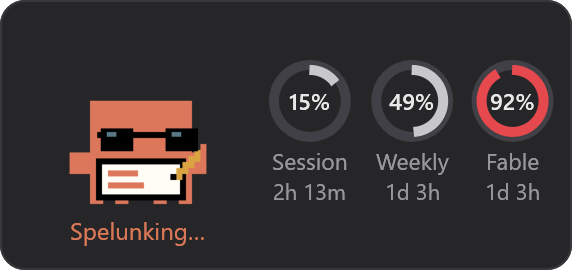
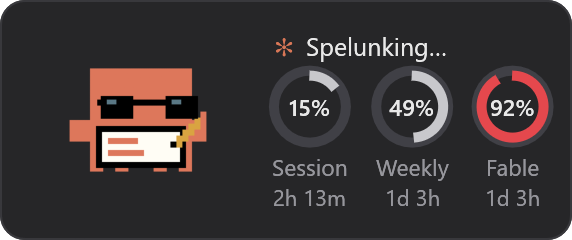
Reshoot the README screenshots for the current panel and settings
The cover and moods now show Clawd's status line above the meters, with
the star turning and each word typing over the last. Settings gets a shot
of each Windows 11-style page, and a new image shows the panel's sizes.

diff --git a/README.md b/README.md
@@ -1,7 +1,7 @@
 # Cuota
 
 <p align="center">
-  <img src="docs/screenshots/clawd-at-work.png" width="383" alt="Cuota's panel: Clawd acts out one activity after another, with a word under him like Percolating…, beside bars for the Session, Weekly and Fable limits">
+  <img src="docs/screenshots/clawd-at-work.png" width="383" alt="Cuota's panel: Clawd acts out one activity after another, while the line above the Session, Weekly and Fable bars types out what he's up to, like ✻ Percolating…">
 </p>
 
 <p align="center">
@@ -16,22 +16,34 @@ Clawd, the Claude Code mascot, acts out a random activity while Claude works: a 
 
 **Clawd's moods**: working, waiting for a minute after a session goes idle, asleep once nothing is happening, and celebrating when work is done.
 
-<img src="docs/screenshots/moods.png" width="776" alt="Four panels: Clawd running commands in sunglasses (Wrangling…), drinking coffee while he waits (Lollygagging…), asleep in a nightcap (Snoozing…), and celebrating under confetti (Nailed it!)">
+<img src="docs/screenshots/moods.png" width="776" alt="Four panels, each with its word above the bars: Clawd running commands in sunglasses (Wrangling…), drinking coffee while he waits (Lollygagging…), asleep in a nightcap (Snoozing…), and celebrating under confetti (Nailed it!)">
 
-**Make it yours**: rings instead of bars, Clawd without his status word, or just the meters.
+**Make it yours**: rings instead of bars, Clawd without his status line, or just the meters.
 
 <p>
   <img src="docs/screenshots/panel-pie.png" width="286" alt="The panel with a ring per limit, showing its percentage inside and the time left underneath">
-  <img src="docs/screenshots/panel-no-status.png" width="383" alt="The panel with Clawd searching the web and no status word under him">
+  <img src="docs/screenshots/panel-no-status.png" width="383" alt="The panel with Clawd searching the web and no status line above the bars">
   <img src="docs/screenshots/panel-no-clawd.png" width="259" alt="The panel with only the limit bars, percentages and time left">
 </p>
 
-**Usage details and settings**: double-click the panel for details, right-click it for settings.
+**Any size**: ten steps from 70% to 160%. Pick one in settings, or turn the mouse wheel over the panel.
+
+<img src="docs/screenshots/sizes.png" width="880" alt="The panel at 70%, 100% and 130% of its normal size">
+
+**Usage details**: double-click the panel to expand it with each limit's reset time and pace, and what your week went to.
+
+<img src="docs/screenshots/panel-details.png" width="383" alt="The expanded panel: each limit's reset time and pace, and what the week's usage went to by app">
+
+**Settings**: right-click the panel. Like Windows 11's Settings, it has a page for each part.
 
 <table>
   <tr>
-    <td valign="top"><img src="docs/screenshots/panel-details.png" width="383" alt="The expanded panel: each limit's reset time and pace, and what the week's usage went to by app"></td>
-    <td valign="top"><img src="docs/screenshots/settings.png" width="340" alt="Cuota's settings: the account, Show as, Double-click, Start with Windows, Opacity and Animate Clawd, then what the panel displays"></td>
+    <td><img src="docs/screenshots/settings-general.png" width="400" alt="Settings, General page: Show as open, with Always on top and Taskbar checked and Desktop not, Double-click set to Show details, and Start with Windows on"></td>
+    <td><img src="docs/screenshots/settings-appearance.png" width="400" alt="Settings, Appearance page: Size at 100%, Resize with mouse wheel on, Opacity at 96%, and Animate Clawd on"></td>
+  </tr>
+  <tr>
+    <td><img src="docs/screenshots/settings-panel.png" width="400" alt="Settings, Panel page: Style set to Bars, Limits showing Session, Weekly and Fable, and Percentage, Time left, Clawd and Status all on"></td>
+    <td><img src="docs/screenshots/settings-taskbar.png" width="400" alt="Settings, Taskbar page: Style set to Bars, Limits open with Session, Weekly and Fable checked, and Percentage, Time left and Clawd on"></td>
   </tr>
 </table>
 
